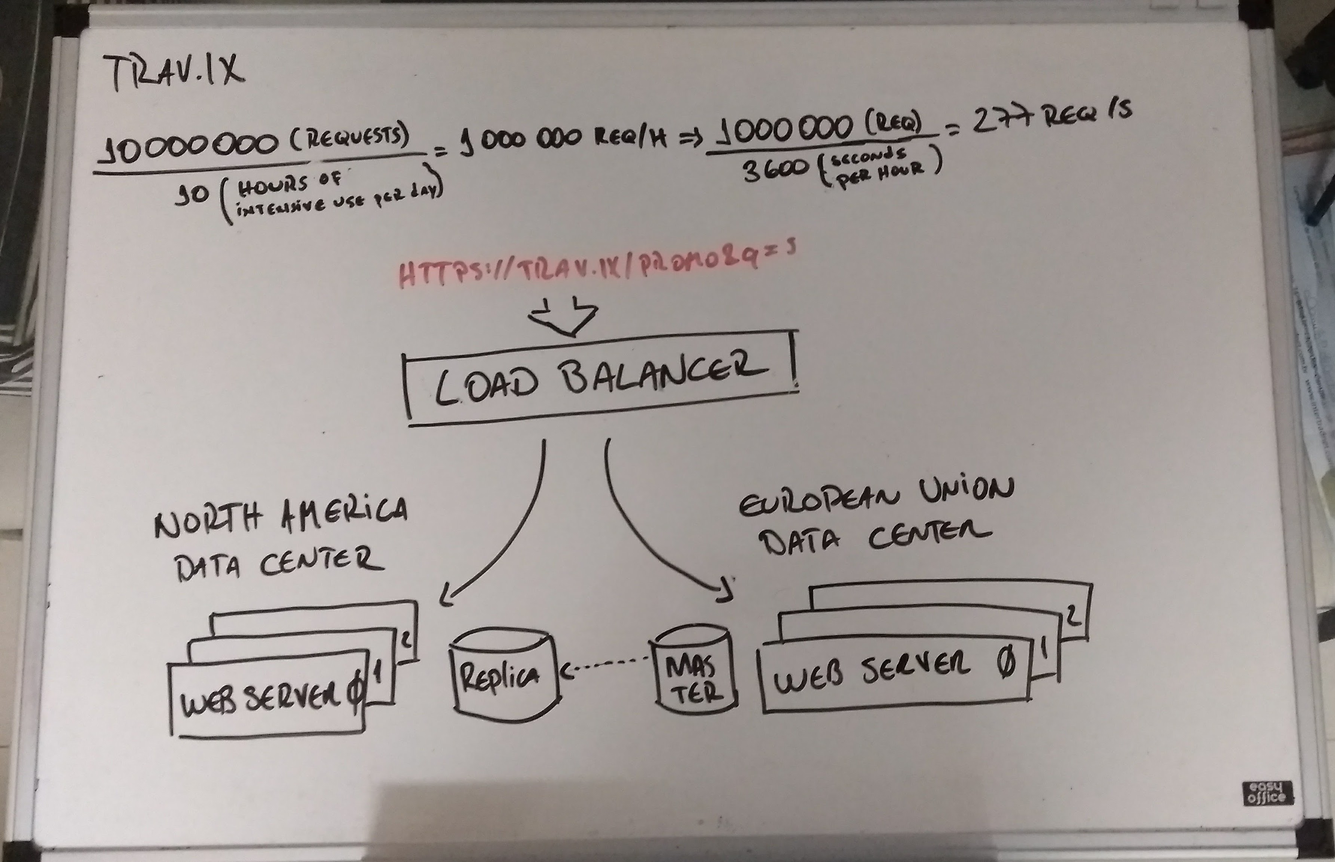
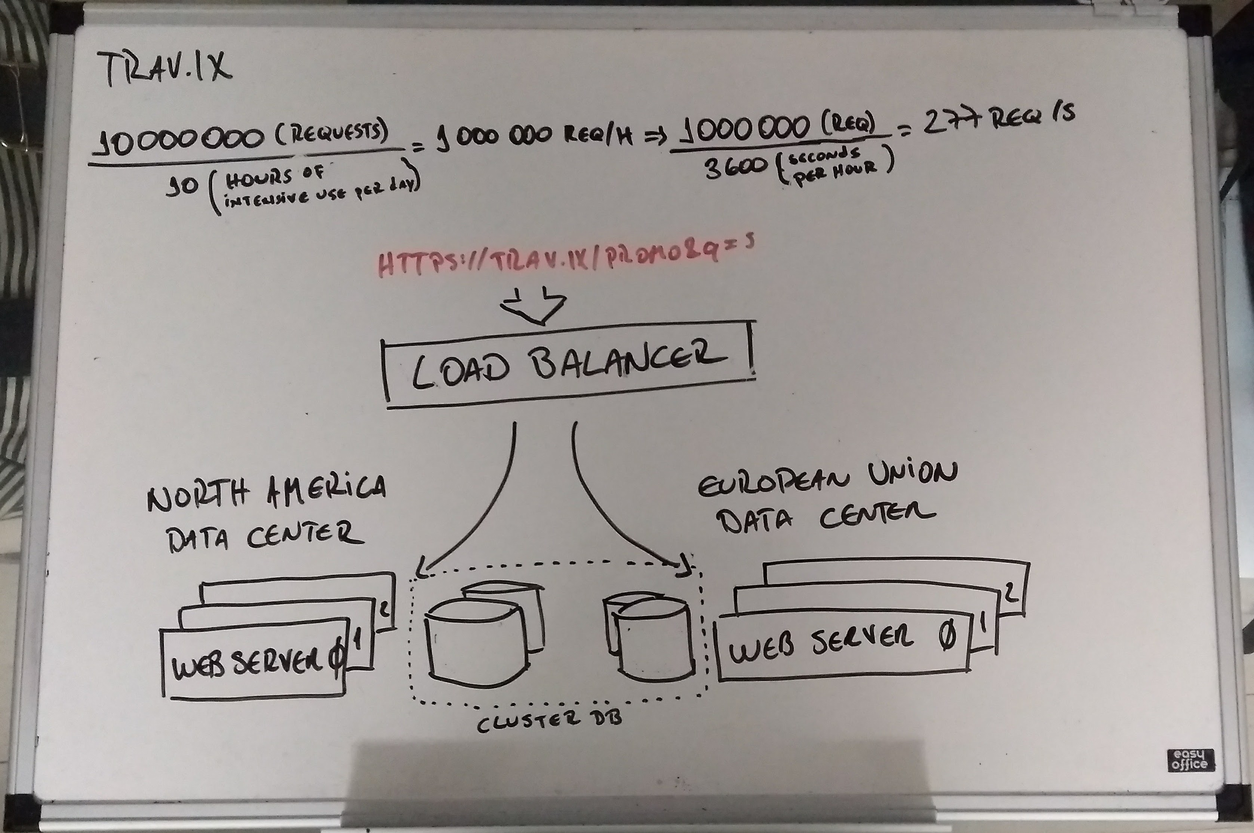
Scale

diff --git a/scale.md b/scale.md
@@ -2,12 +2,20 @@
 
 ![Bigpicture](/infrastructure.jpg)
 
-The scalability of the proposed solution is based on:
+## The scalability of the proposed solution is based on:
 
-1. Backend stateless to allow elastic scale out
+1. Backend stateless to allow elastic scale out and async controllers to be more efficient in use of threads to I/O
 2. Cluster of Database in Memory (Hazelcast) to improve sincronization time and read time
-3. Load Balancer without sticky session
+3. Load Balancer without sticky session to improve availability
+4. Segregation of backend servers by geographic region
 
 Distributing 10000000 requests during 10 hours per day, the result is a throughput around 277 requests per second in the peak.
 
 Estimating that one small server can handle 30 requests per second, in the worst moment, it will be need 10 servers to handle the 277 requests. However, with elastic load balancing it is possible to fit the number of server to number of requests.
+
+## Points that can be improved to reach more performance yet:
+
+1. Use of Go language to handle request
+2. Segregation of database in write and read operations
+3. Geographic Load Balancing
+4. Short URLs *interceptable* by a CDN

diff --git a/assumptions.md b/assumptions.md
@@ -5,3 +5,7 @@
 2. Another way of deal with this Post requirement without require the *callback URL*, would be the Trav.ix forward the request, catch the response, copy the body and return it on behalf the target system. But, doing this, the Trav.ix would be a kind of API Gateway (much more complex than a shortener system).
 
 3. The shortener does not need to know details about URL fragments or query string parameters because is responsibility of target system handle them.
+
+4. The backup of volatible data of Hazelcast can be done through script.
+
+5. To avoid 404, a friendly error URL can be informed beside the target URL. The Trav.ix can have a generic URL too.
